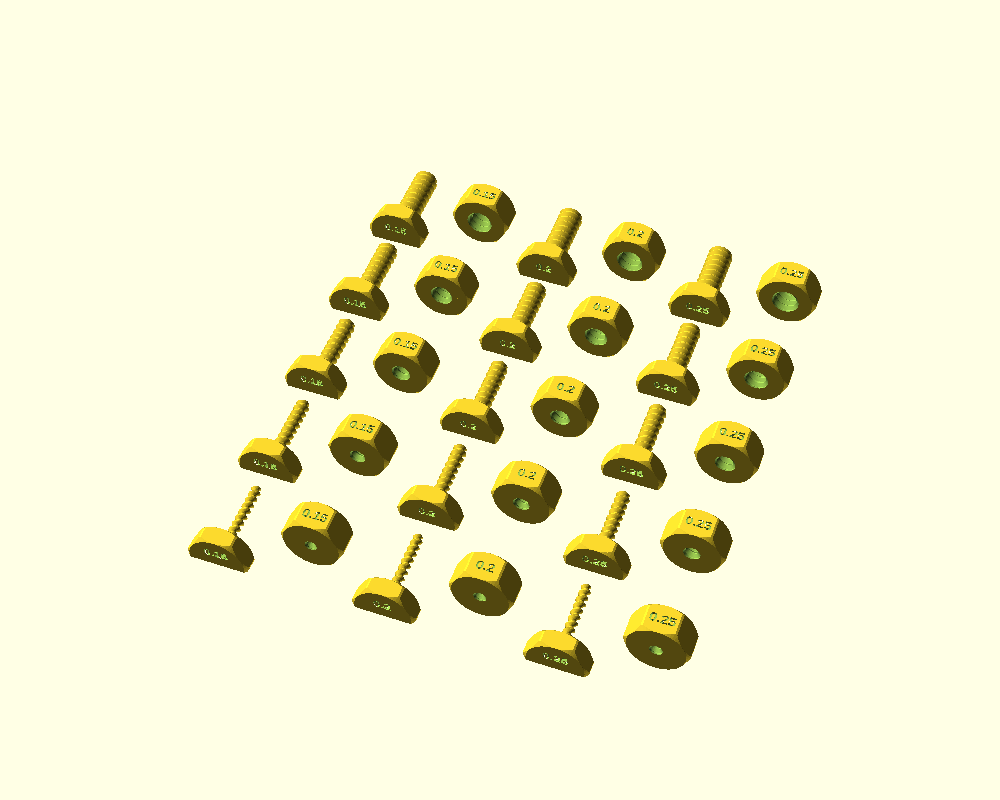
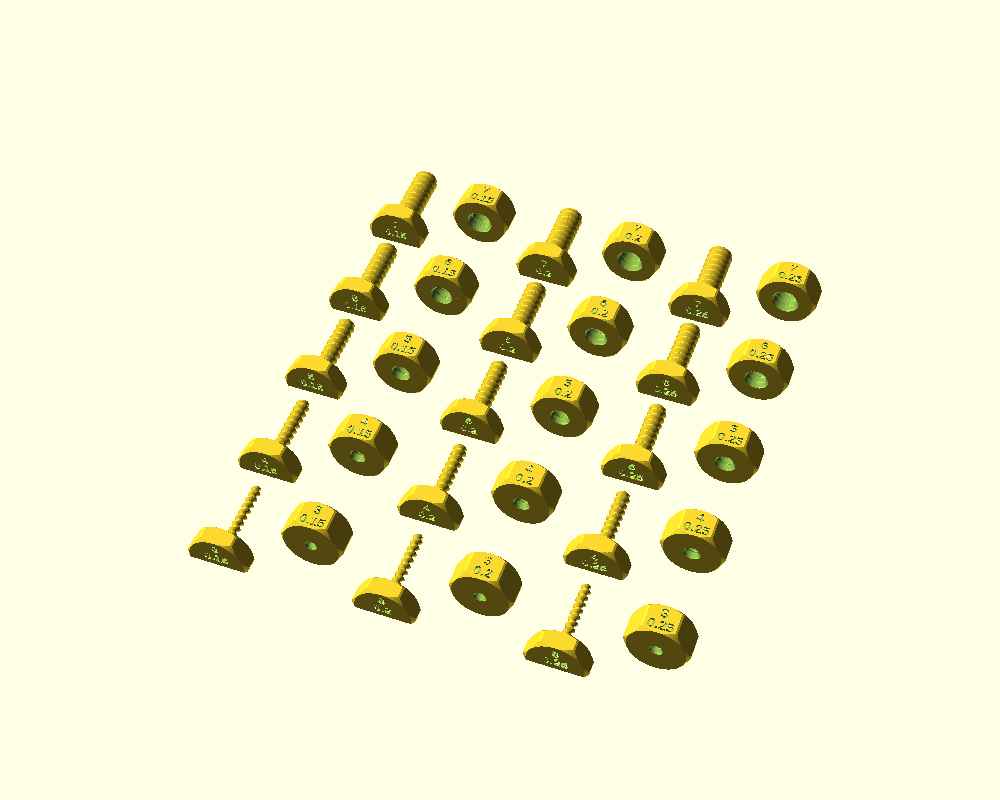
FDM optimized screws: engrave the diameter on the test parts too
Two-line labels: diameter above the clearance, on each screw head and nut.

diff --git a/projects/fdm_optimized_screws/readme.md b/projects/fdm_optimized_screws/readme.md
@@ -41,8 +41,9 @@ the nut. Raise it if the nut is tight, lower it if it is loose.
 
 `part = "testing"` lays out a screw and a nut for every diameter in
 `test_diameters` (3, 4, 5, 6, 7 mm) and every clearance in `test_clearances`
-(0.15, 0.2, 0.25 mm), 15 pairs in all. The clearance is engraved on the end
-face of the screw head and on one side of the nut. All of it is in the nut, as
+(0.15, 0.2, 0.25 mm), 15 pairs in all. The diameter (top line) and the
+clearance (bottom line) are engraved on the end face of the screw head and on
+one side of the nut. All of it is in the nut, as
 with `thread_clearance`, so screws of the same diameter are the same and the
 number tells which nut they belong to. All parts have the 2 mm pitch and a
 15 mm head and nut (`test_width`), wide enough for the numbers.
